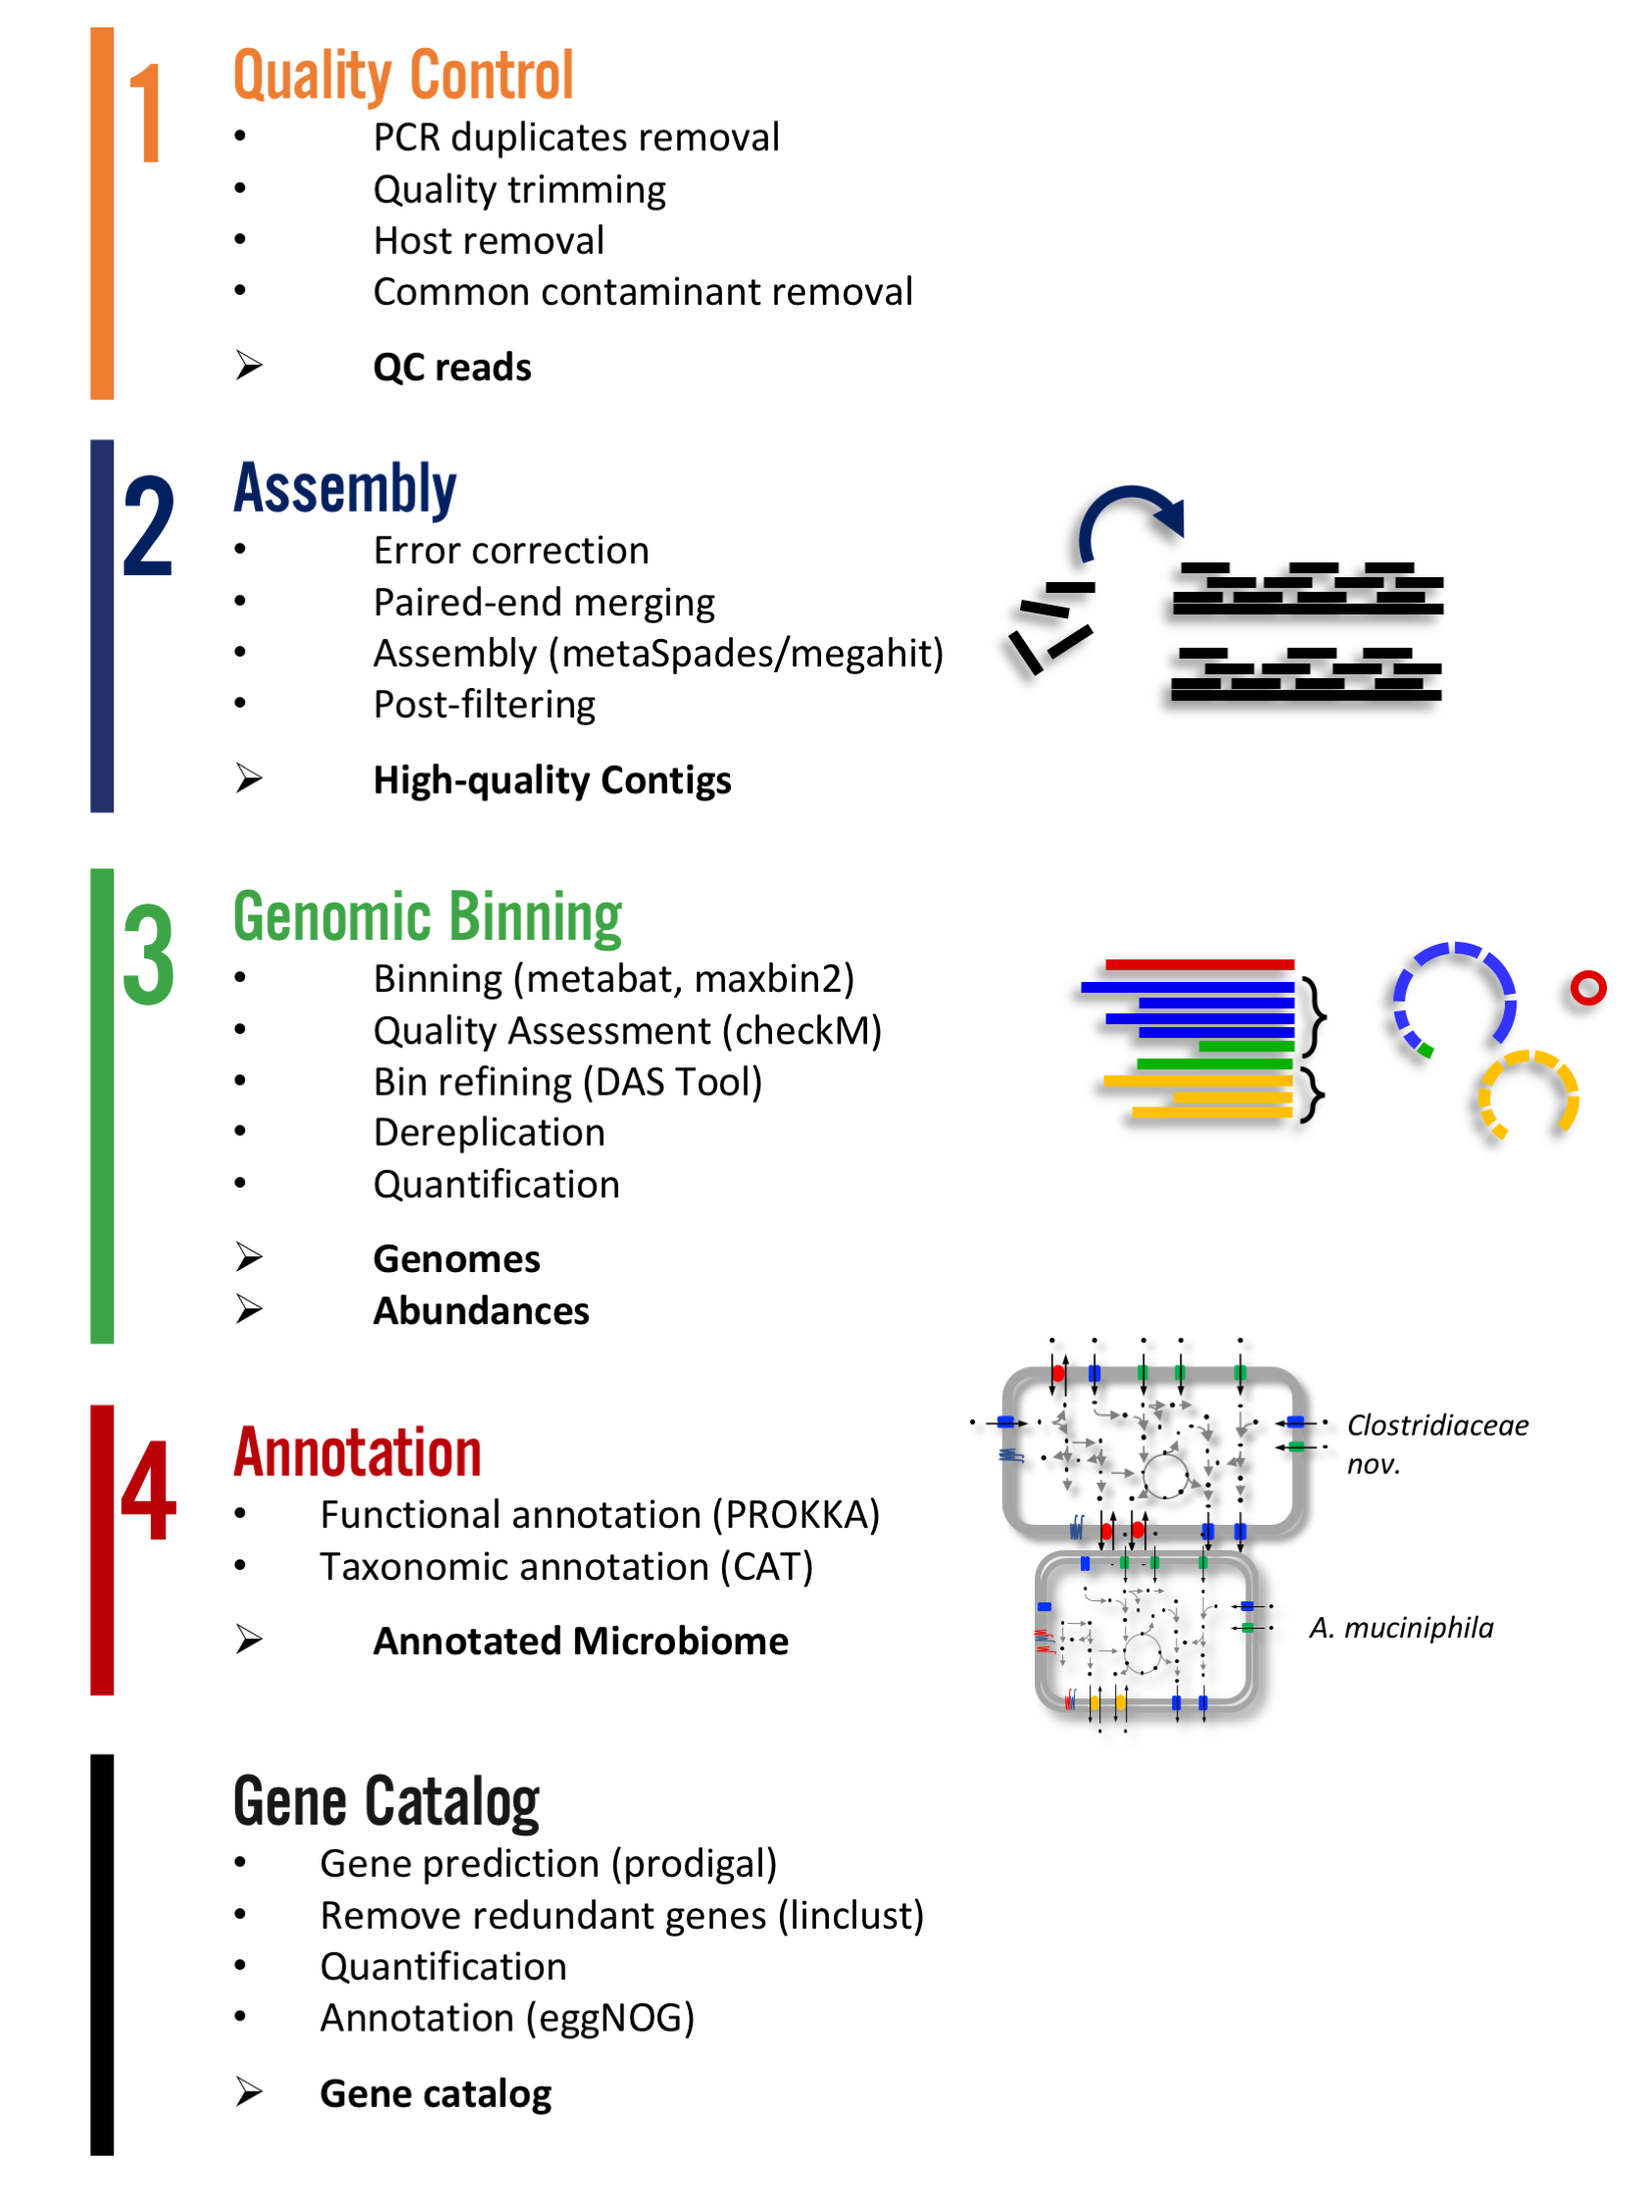
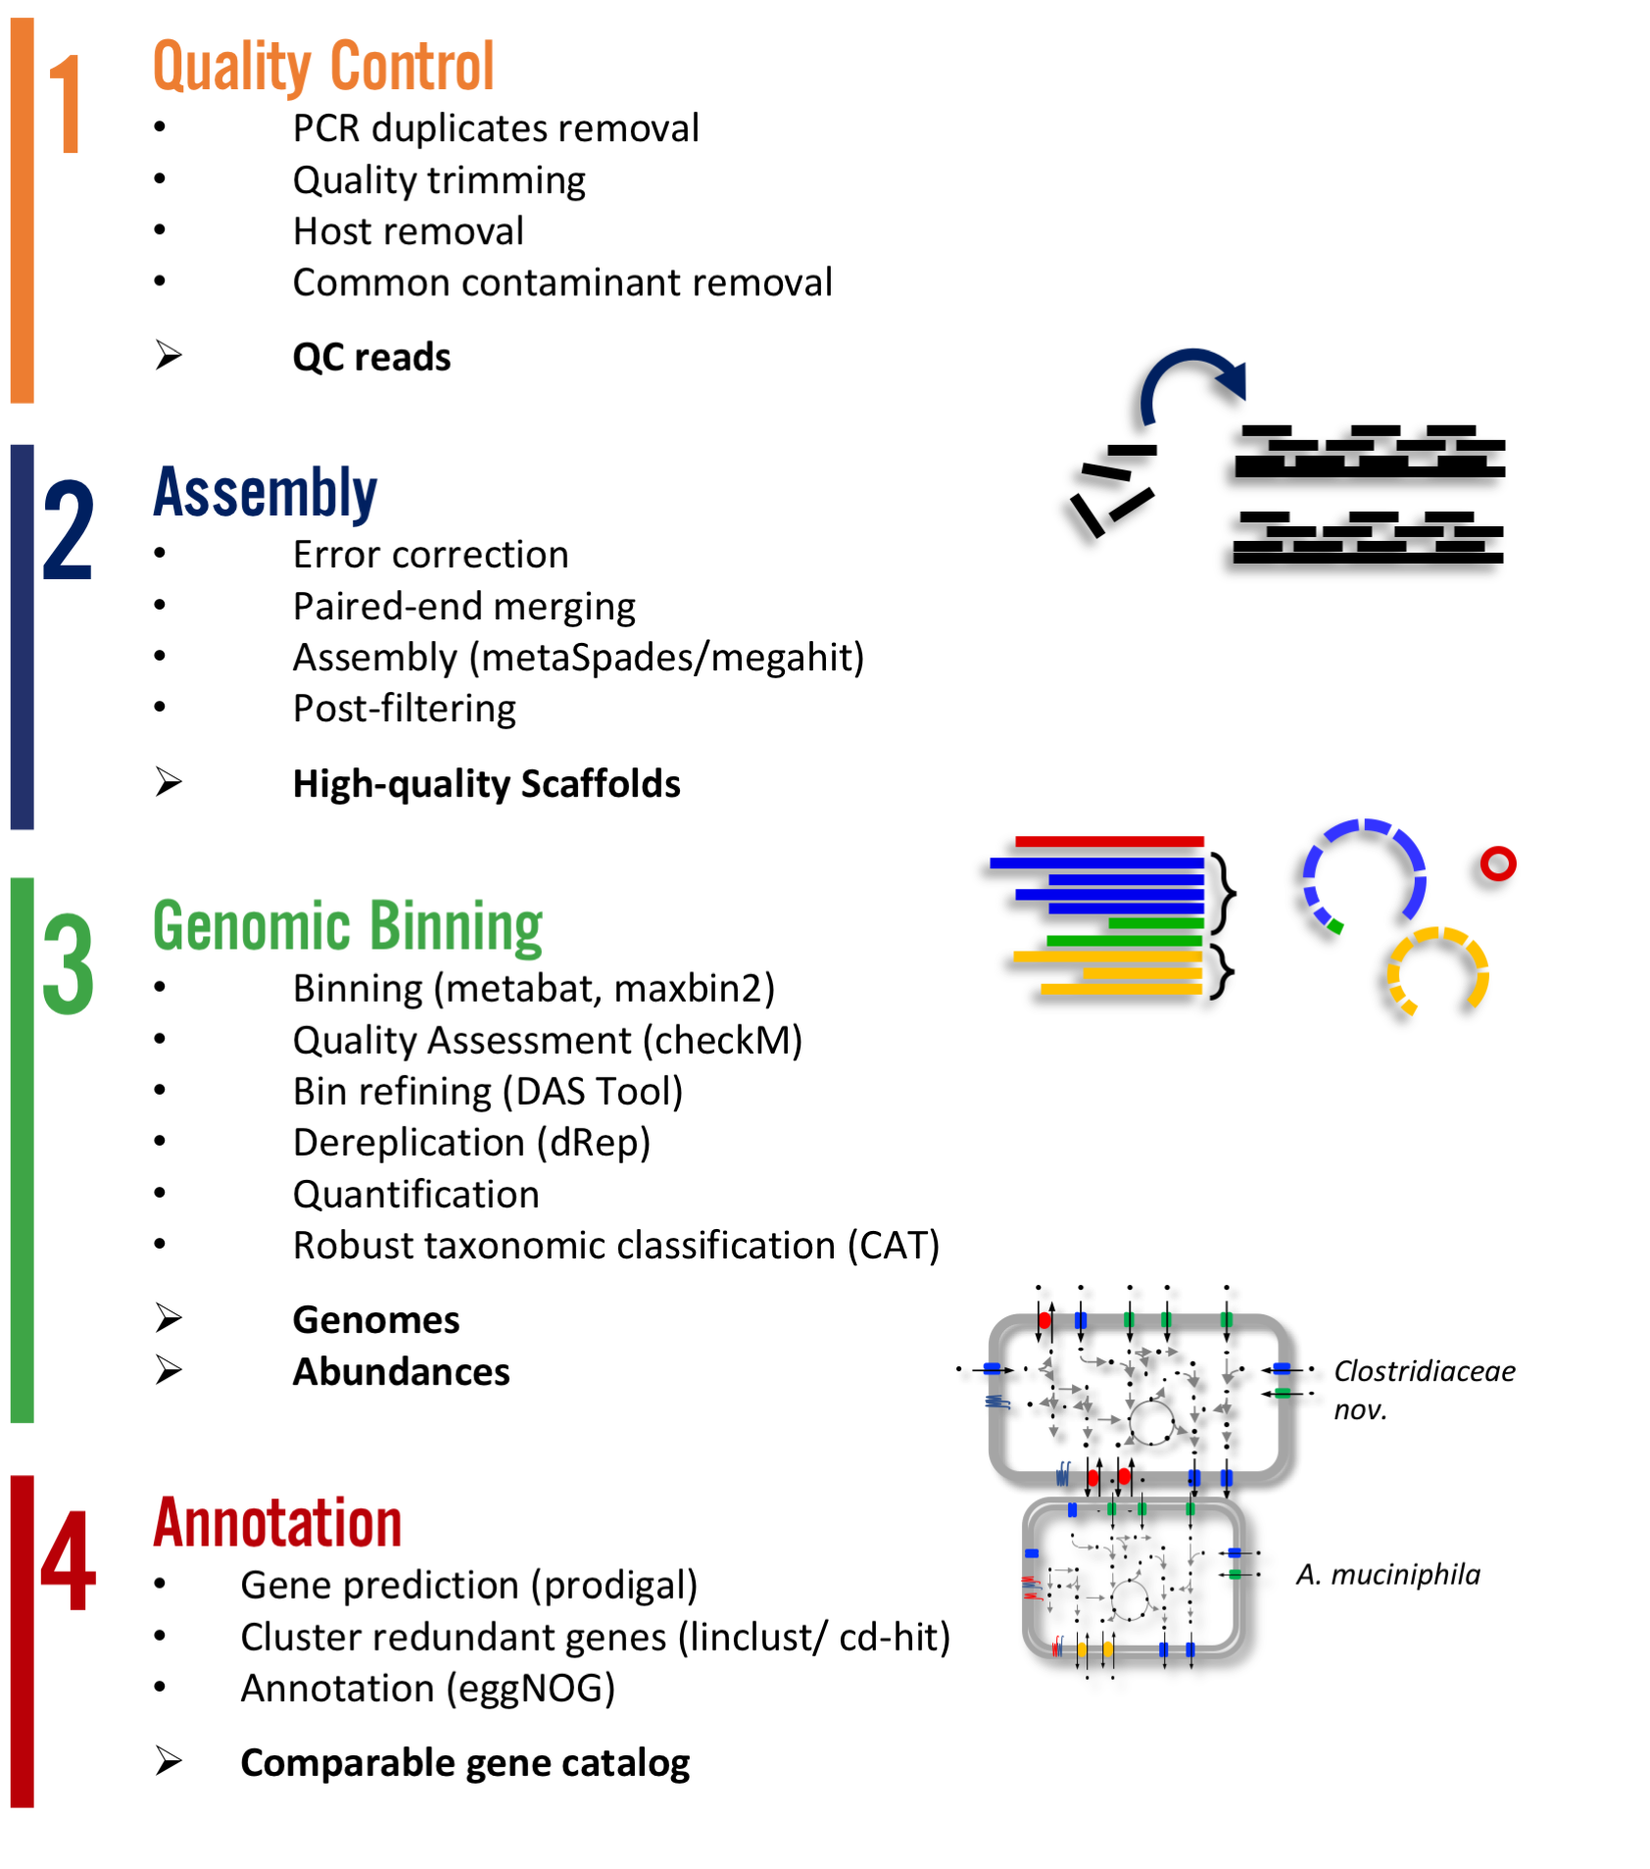
updated scheme and docs, gencatalog from MAGs

diff --git a/docs/details/pipeline.rst b/docs/details/pipeline.rst
@@ -113,15 +113,14 @@ Gene Catalog
 
 ::
 
+  atlas run all
+  # or
   atlas run genecatalog
 
-The gene catalog takes all genes predicted and clusters them
+The gene catalog takes all genes predicted from the genomes and clusters them
 according to the configuration.
 This rule produces the following output file for the whole dataset.
 
   - ``Genecatalog/gene_catalog.fna``
   - ``Genecatalog/gene_catalog.faa``
-  - ``Genecatalog/counts/median_coverage.tsv.gz``
-  - ``Genecatalog/annotation/single_copy_genes_bacteria.tsv``
-  - ``Genecatalog/annotation/single_copy_genes_archaea.tsv``
   - ``Genecatalog/annotations/eggNog.tsv``
